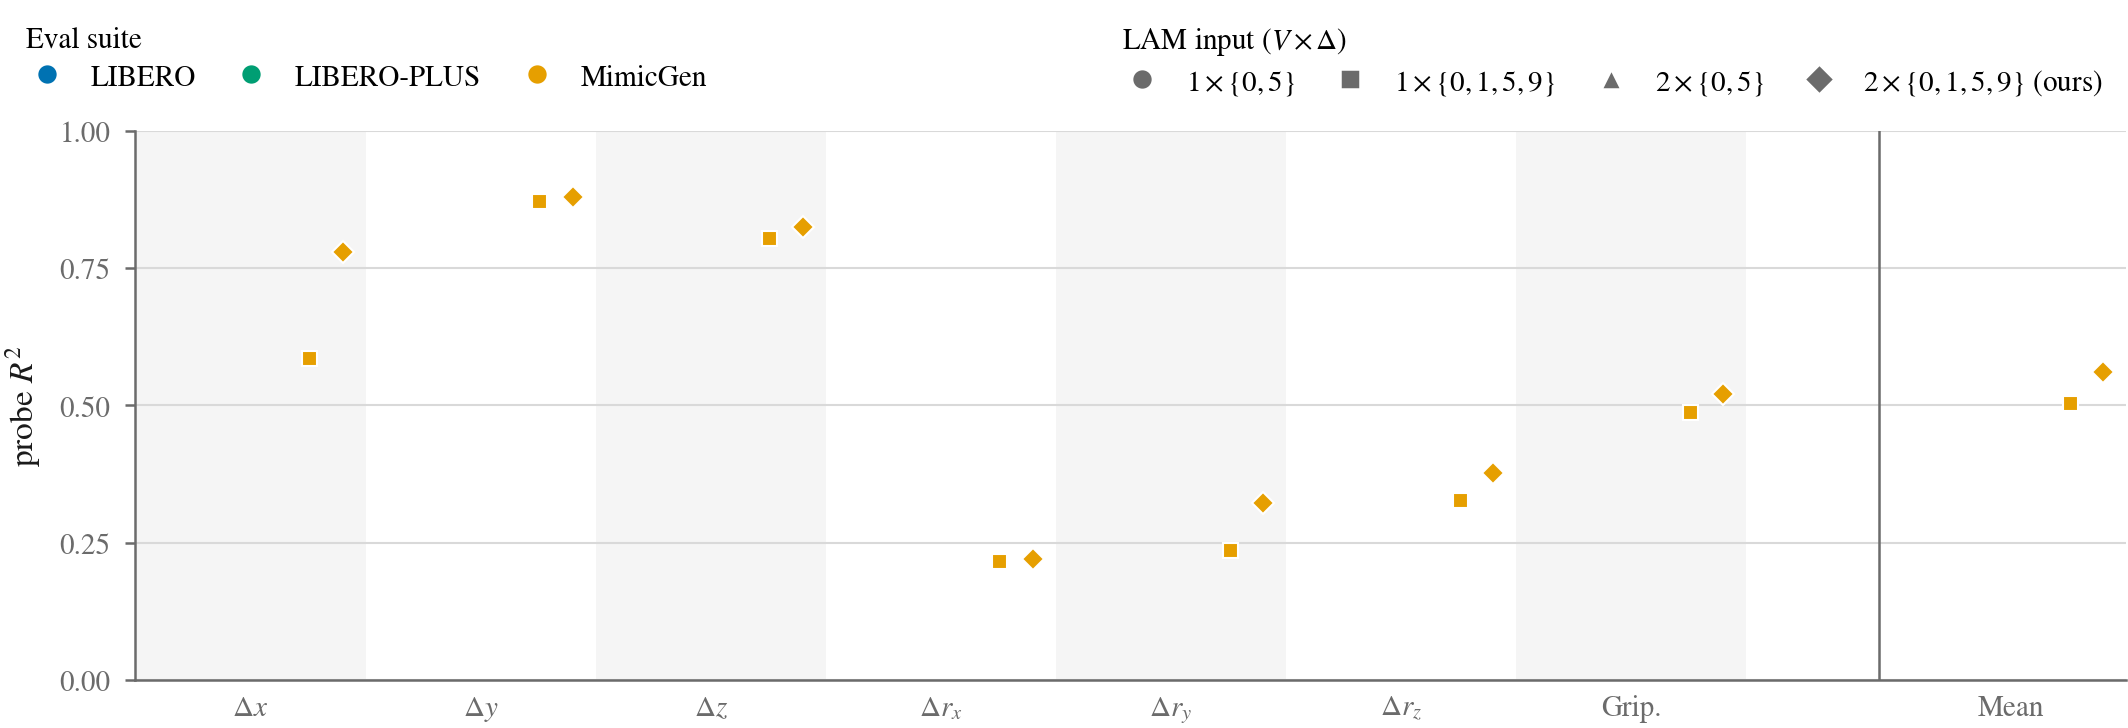
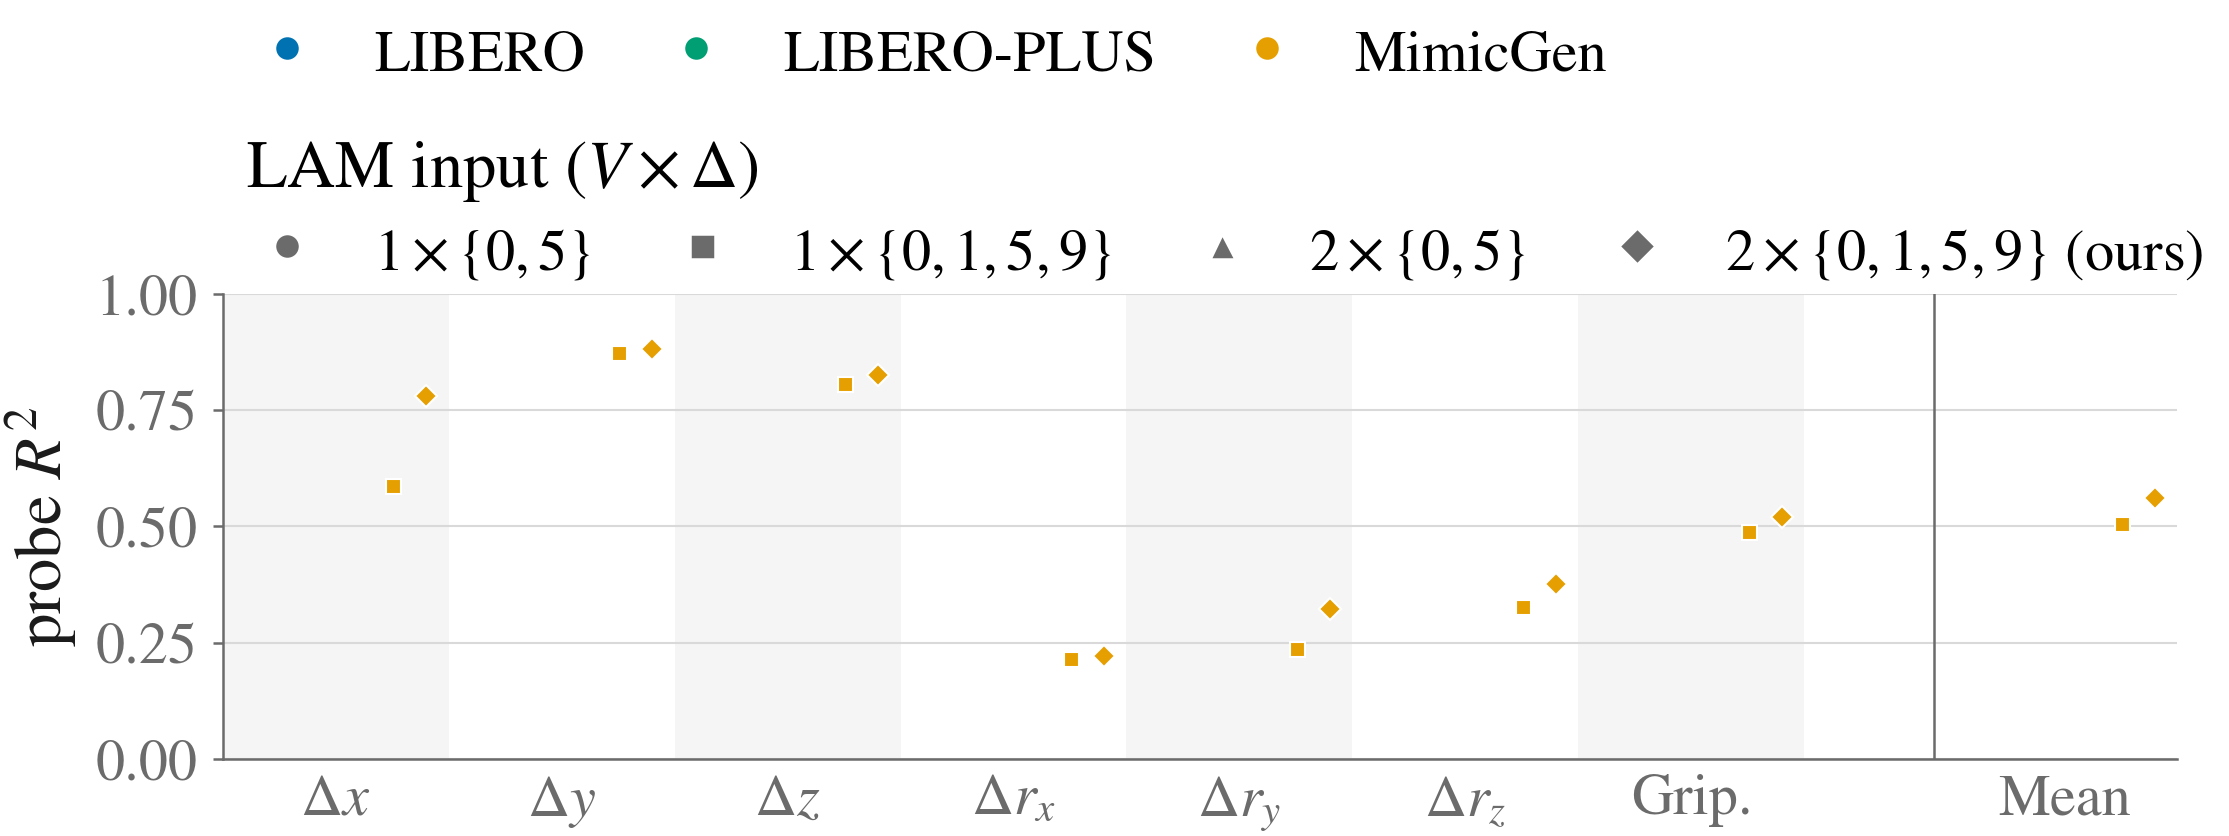
probing: 2x figure text, 20% shorter plot area
Font sizes double (16pt/14pt in the generated PDF) so the figure
survives being scaled down on the page, and the axes drops from
1.94in to 1.55in tall.

Layout had to move off constrained_layout to get there. Two legends
both requesting "outside upper center" are assigned the same slot and
drawn on top of each other, and at 2x text they no longer fit one row
of \textwidth side by side either. They are now stacked and placed
explicitly, with the figure margins reserving the space by hand.

Dropped the "Eval suite" legend title -- the benchmark names already
say what they are, and a title row costs real height at this text
size. The marker legend keeps its title, since "1x{0,5}" does not
explain itself.

diff --git a/plot_probing.py b/plot_probing.py
@@ -141,17 +141,22 @@ def print_table(suite_label, labels, values, methods):
         print("  " + f"{axis:<10}" + cells)
 
 
-def build_legends(fig, ax, suite_labels, methods):
-    """Two legends, one per encoding channel.
+def build_legends(fig, suite_labels, methods, left):
+    """Two legends, one per encoding channel, stacked above the axes.
 
     A single combined legend would need suites x methods entries to say what
     two short lists say directly, and it would imply the two factors are one.
+
+    Placement is explicit rather than via constrained_layout: two legends both
+    asking for "outside upper center" are given the same slot and silently
+    drawn on top of each other.
     """
     from matplotlib.lines import Line2D
 
-    common = dict(linestyle="none", markeredgecolor="white", markeredgewidth=0.6)
+    common = dict(linestyle="none", markeredgecolor="white", markeredgewidth=0.6,
+                  markersize=6)
     suite_handles = [
-        Line2D([], [], marker="o", markersize=5,
+        Line2D([], [], marker="o",
                color=style.PALETTE[i % len(style.PALETTE)], label=s, **common)
         for i, s in enumerate(suite_labels)
     ]
@@ -159,19 +164,20 @@ def build_legends(fig, ax, suite_labels, methods):
     # shape only, and coloring them would suggest a suite pairing that is not
     # there.
     method_handles = [
-        Line2D([], [], marker=style.MARKERS[i % len(style.MARKERS)], markersize=5,
+        Line2D([], [], marker=style.MARKERS[i % len(style.MARKERS)],
                color=style.INK_MUTED, label=label_for(m), **common)
         for i, m in enumerate(methods)
     ]
 
-    leg1 = fig.legend(handles=suite_handles, title="Eval suite",
-                      loc="outside upper left", ncol=len(suite_handles),
-                      frameon=False, alignment="left")
-    leg1.get_title().set_fontsize(7)
-    leg2 = fig.legend(handles=method_handles, title=r"LAM input ($V\times\Delta$)",
-                      loc="outside upper right", ncol=len(method_handles),
-                      frameon=False, alignment="left")
-    leg2.get_title().set_fontsize(7)
+    # No title on the suite legend -- the benchmark names say what they are,
+    # and at this text size a title row costs real vertical space. The marker
+    # legend keeps its title because "1x{0,5}" does not explain itself.
+    fig.legend(handles=suite_handles, loc="upper left", bbox_to_anchor=(left, 1.0),
+               ncol=len(suite_handles), frameon=False, borderaxespad=0)
+    fig.legend(handles=method_handles, title=r"LAM input ($V\times\Delta$)",
+               loc="upper left", bbox_to_anchor=(left, 0.87),
+               ncol=len(method_handles), frameon=False, alignment="left",
+               borderaxespad=0)
 
 
 def main():
@@ -224,7 +230,13 @@ def main():
     span = 0.80
     slots = np.linspace(-span / 2, span / 2, n_slots)
 
-    fig, ax = plt.subplots(figsize=(style.TEXT_WIDTH, 2.5), constrained_layout=True)
+    # Explicit margins, not constrained_layout: the two stacked legends are
+    # placed by hand (see build_legends), so the space they need has to be
+    # reserved by hand too. Fractions are of the figure, tuned so the axes ends
+    # up ~1.55in tall regardless of the legend rows above it.
+    left, bottom, top = 0.085, 0.13, 0.665
+    fig, ax = plt.subplots(figsize=(style.TEXT_WIDTH, 2.9))
+    fig.subplots_adjust(left=left, right=0.995, bottom=bottom, top=top)
 
     # Alternating group bands. With twelve marks per group the eye needs the
     # group boundary drawn rather than inferred from spacing alone.
@@ -258,7 +270,7 @@ def main():
     ax.tick_params(axis="x", length=0)
     ax.set_ylabel(r"probe $R^2$")
 
-    build_legends(fig, ax, [s[0] for s in suites], ref_methods)
+    build_legends(fig, [s[0] for s in suites], ref_methods, left)
     style.save(fig, args.name)
     if total_placeholder:
         print(f"\n  note: {total_placeholder} placeholder cell(s) not yet run; "

diff --git a/style.py b/style.py
@@ -53,14 +53,16 @@ def apply_style():
         "font.serif": ["Nimbus Roman", "Times New Roman", "Liberation Serif", "DejaVu Serif"],
         "mathtext.fontset": "stix",
 
-        # Body text is 10pt. Figure text one to three points smaller reads as
-        # subordinate without becoming illegible at print size.
-        "font.size": 8,
-        "axes.labelsize": 8,
-        "axes.titlesize": 8,
-        "xtick.labelsize": 7,
-        "ytick.labelsize": 7,
-        "legend.fontsize": 7,
+        # Figure text is set at 2x the usual 8pt/7pt so it survives being
+        # scaled down on the page. These are sizes *in the generated PDF*, not
+        # on the printed page -- if a figure is included at full size without
+        # scaling, this reads much larger than the 10pt body text.
+        "font.size": 16,
+        "axes.labelsize": 16,
+        "axes.titlesize": 16,
+        "xtick.labelsize": 14,
+        "ytick.labelsize": 14,
+        "legend.fontsize": 14,
 
         # Recessive axes and grid: the data should be the darkest thing here.
         "axes.edgecolor": INK_MUTED,
